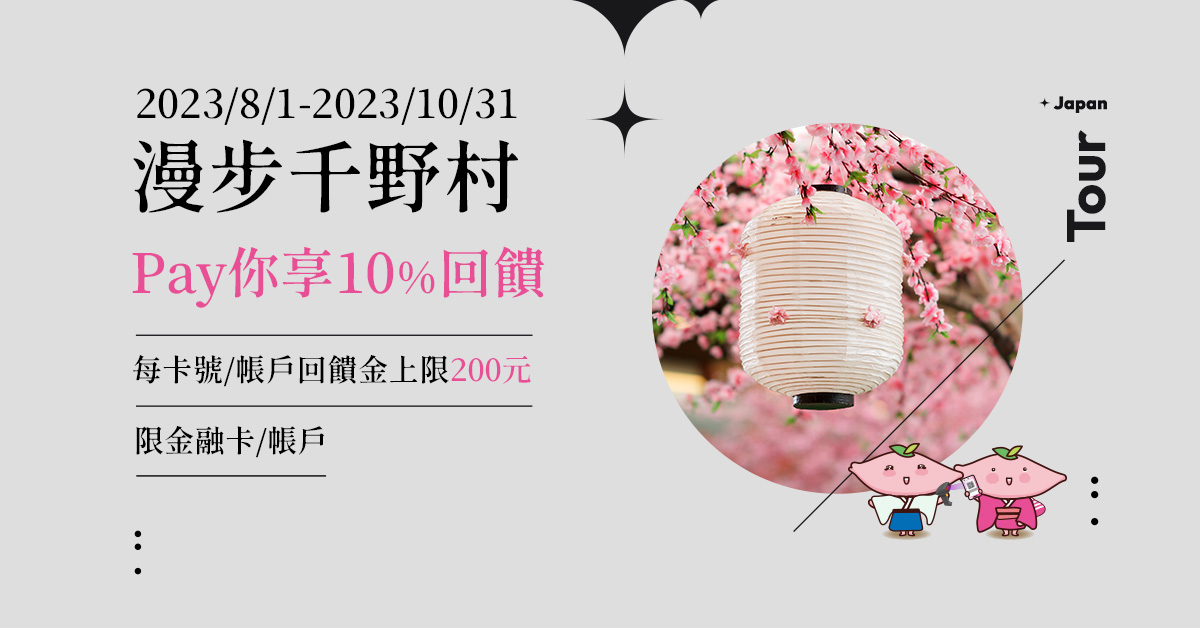
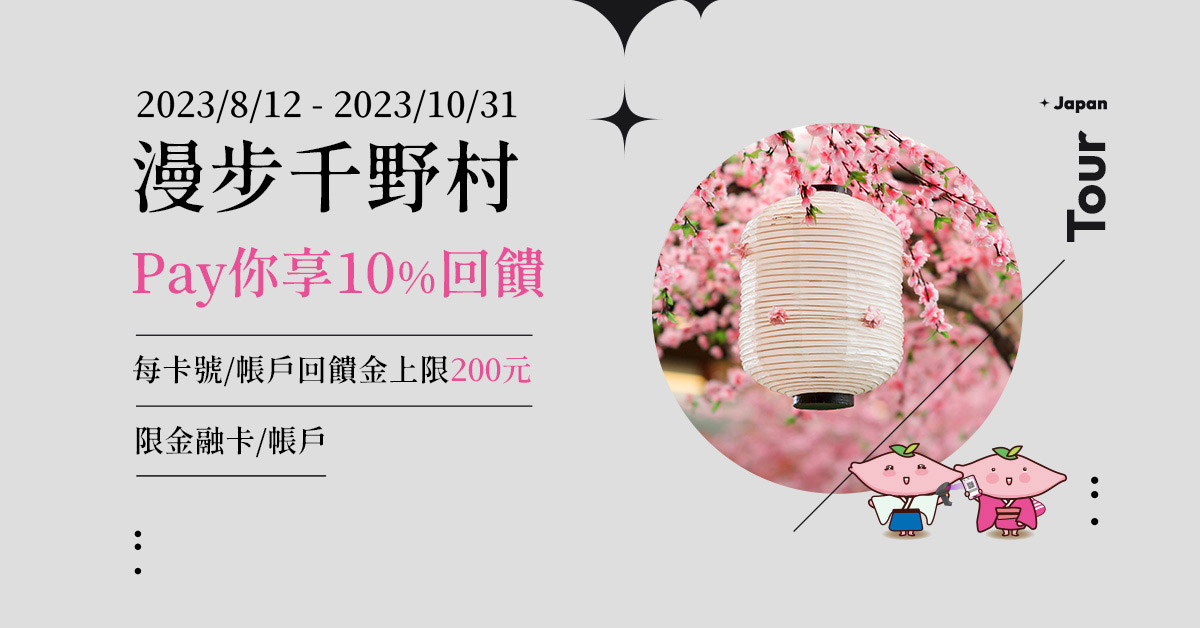
2

Changed region(s): [[0.1233, 0.121, 0.4317, 0.2118]]

diff --git a/senyavillag/index.html b/senyavillag/index.html
@@ -10,12 +10,12 @@
     <link rel="shortcut icon" type="image/x-icon" href="https://www.yuantabank.com.tw/bank/resources/front/images/favicon.ico" />
 
     <meta name="keywords" content="帳戶支付連結,行動支付,電子支付,元大銀行,元大,數位存款,鑽金數位存款,台灣Pay,twpay,千野村,日式景觀園區" />
-    <meta name="description" content="即日起使用元大帳戶連結台灣Pay，於千野村日式景觀園區指定店家消費享10%現金回饋(每帳戶/金融卡回饋上限100元)。" />
+    <meta name="description" content="即日起使用元大帳戶連結台灣Pay，於千野村日式景觀園區指定店家消費享10%現金回饋(每帳戶/金融卡回饋上限200元)。" />
 
     <meta property="og:title" content="元大銀行｜元大銀行｜漫步千野村 Pay你享10%回饋" />
     <meta property="og:site_name" content="元大銀行" />
     <meta property="og:url" content="https://www.yuantabank.com.tw/bankwebIMG/event/Bank_Act2023/twpay_senyavillage/index.html" />
-    <meta property="og:description" content="即日起使用元大帳戶連結台灣Pay，於千野村日式景觀園區指定店家消費享10%現金回饋(每帳戶/金融卡回饋上限100元)。" />
+    <meta property="og:description" content="即日起使用元大帳戶連結台灣Pay，於千野村日式景觀園區指定店家消費享10%現金回饋(每帳戶/金融卡回饋上限200元)。" />
 
     <!-- Facebook 縮圖 -->
     <link rel="image_src" href="https://www.yuantabank.com.tw/bankwebIMG/event/Bank_Act2023/twpay_senyavillage/assets/images/share_img.jpg" />
@@ -83,19 +83,19 @@
                     <div class="event" id="event">
                         <div class="event_part">
                             <div class="event_tit"><img src="assets/images/event_tit1.png" alt="活動期間"></div>
-                            <div class="event_date">112/8/12 - 112/10/31</div>
+                            <div class="event_date">2023/8/12 - 2023/10/31</div>
                         </div>
                         <div class="event_part">
                             <div class="event_tit"><img src="assets/images/event_tit2.png" alt="活動對象"></div>
-                            <div class="event_txt">於活動地點使用元大「台灣Pay」（透過「台灣行動支付」APP或「元大銀行」APP），<br class="dis-none">QR Code掃碼（限金融卡/帳戶）進行支付之用戶。</div>
+                            <div class="event_txt">於活動地點使用元大「台灣Pay」（透過「台灣行動支付」APP或「元大銀行」APP），<br class="dis-none">QR Code掃碼（限金融卡/帳戶）進行支付之用戶</div>
                         </div>
                         <div class="event_part">
                             <div class="event_tit"><img src="assets/images/event_tit3.png" alt="活動地點"></div>
-                            <div class="event_txt">千野村日式景觀園區受理「台灣Pay」交易之指定店家，如有異動以元大銀行官網公告為準。</div>
+                            <div class="event_txt">千野村日式景觀園區內受理「台灣Pay」交易之指定店家，如有異動以元大銀行官網公告為準。</div>
                         </div>
                         <div class="event_part">
                             <div class="event_tit"><img src="assets/images/event_tit4.png" alt="活動內容"></div>
-                            <div class="event_txt">活動期間客戶至活動地點以「台灣Pay」QR Code掃碼（限金融卡/帳戶）進行支付，<br class="dis-none">可享單筆交易不限金額<span class="pinktt">10%現金回饋</span>(非即時回饋，小數點後四捨五入)，<br class="dis-none">每帳戶/金融卡回饋上限新臺幣(以下同)200元。<br class="dis-none">本活動回饋總金額30萬元為上限，額滿為止，並公告於元大銀行官網。</div>
+                            <div class="event_txt">活動期間用戶至活動地點以「台灣Pay」QR Code掃碼（限金融卡/帳戶）進行支付，<br class="dis-none">可享單筆交易不限金額<span class="pinktt">10%現金回饋</span>(非即時回饋，小數點後四捨五入)，<br class="dis-none">活動期間內每帳戶/金融卡回饋上限新臺幣(以下同)200元。<br class="dis-none">本活動回饋總金額30萬元為上限，額滿為止，並公告於元大銀行官網。</div>
                         </div>
                         <div class="action">
                             <div class="action-item">
@@ -124,27 +124,27 @@
                                 <ol>
                                     <li>本活動將依用戶交易時序核算回饋資格，且整筆交易金額不得拆刷。如經主辦單位確認已達本活動回饋總金額上限，即停止回饋，並公告於元大銀行官網，不另行通知。</li>
                                     <li>本活動用戶單筆結帳金額，以活動店家計算金額為準，若因付款失敗、交易取消、退貨退款等情形，該筆交易金額將不列入回饋金計算範圍。</li>
-                                    <li>本活動回饋金將於活動期間結束並核實用戶之消費金額後，由各參與金融機構依其作業時程於113年1月31日前撥付至用戶據以扣款之金融卡/帳戶，倘於回饋金撥入前，持卡人有停卡、取消交易、警示帳戶、發生失效情形(如結清銷戶或其他事由致帳戶失效)、違反與參與金融機構間契約或其他因素致無法撥入等情事者，視同用戶放棄其回饋資格。</li>
+                                    <li>本活動回饋金將於活動期間結束並依主辦單位系統核實確認用戶之消費金額後，由各參與金融機構依其作業時程於113年1月31日前撥付至用戶據以扣款之金融卡/帳戶，倘於回饋金撥入前，用戶有停卡、取消交易、警示帳戶、如結清銷戶或其他事由致帳戶失效、違反與參與金融機構間契約或任何其他因素致回饋金無法撥入者，視同用戶放棄其回饋資格。</li>
                                     <li>參與金融機構：透過「行動銀行」APP或「台灣行動支付」APP之參與機構如下，如有更新則以<a href="https://taiwanpay.com.tw/" target="_blank">「台灣Pay」官網</a>為準，不另行通知。
                                         <ul>
-                                            <li>「行動銀行」APP之參與機構：臺灣銀行、土地銀行、合作金庫、第一銀行、華南銀行、彰化銀行、高雄銀行、兆豐銀行、臺灣企銀、台北富邦、京城銀行、華泰銀行、陽信銀行、板信銀行、淡水一信、台中二信、三信銀行、農金資訊「農漁行動達人」、中華郵政、元大銀行及玉山銀行(含玉山Wallet)，計21家金融機構。</li>
+                                            <li>「行動銀行」APP之參與機構：臺灣銀行、土地銀行、合作金庫、第一銀行、華南銀行、彰化銀行、高雄銀行、兆豐銀行、臺灣企銀、上海銀行、台北富邦、京城銀行、華泰銀行、陽信銀行、板信銀行、淡水一信、台中二信、三信銀行、農金資訊「農漁行動達人」、中華郵政、元大銀行及玉山銀行(玉山Wallet)，計22家金融機構。</li>
                                             <li>「台灣行動支付」APP之參與機構：臺灣銀行、土地銀行、合作金庫、第一銀行、華南銀行、彰化銀行、上海商銀、兆豐銀行、臺灣企銀、新光銀行、基隆一信、基隆二信、淡水一信、新竹一信、新竹三信、彰化六信、花蓮二信、中華郵政、南農中心及南資中心，計20家金融卡發卡機構。</li>
                                         </ul>
                                     </li>
                                 </ol>
                             </li>
-                            <li>各參與金融機構及財金資訊股份有限公司並未介入商品、服務之提供或交付、或商品服務買賣等實體法律關係，不負擔任何瑕疵擔保或賠償責任，相關商品退換貨或瑕疵擔保所衍生之爭議事宜，用戶請洽活動地點門市尋求解決。</li>
-                            <li>主、協辦單位就用戶之資格、交易成功與否等，保有審查之權利，經查核若有不符本活動之規定者，主、協辦單位得取消其參加資格，並得追回回饋金或請求損害賠償。</li>
-                            <li>用戶同意主、協辦單位留存有關本活動之資料及紀錄，且內容皆以主、協辦單位之電腦系統與時間為準。</li>
-                            <li>對於以偽造、詐欺、冒名、拆單或其他不正當方式意圖兌領之用戶，經查證屬實者，主辦單位有權排除其參與本活動，並得依法對該用戶提起相關法律訴訟程序。</li>
-                            <li>用戶已充分知悉且同意就本活動提供之個人資料，主、協辦單位得於此次活動範圍進行蒐集、處理及利用或國際傳輸，並遵守【個人資料保護法】相關規定辦理。</li>
-                            <li>其它未盡事宜以龜記活動門市公告或主、協辦單位活動訊息頁面為準。主、協辦單位有權決定取消、終止、修改或暫停本活動，亦有權對本活動之所有事項做出最終解釋，無須另行通知。</li>
+                            <li>各參與金融機構及財金資訊股份有限公司並未介入商品、服務之提供或交付、或商品服務買賣等實體法律關係，不負擔任何瑕疵擔保或賠償責任，相關商品退換貨或瑕疵擔保所衍生之爭議事宜，用戶請洽活動地點之指定店家尋求解決。</li>
+                            <li>主辦單位、協辦單位就用戶之資格、交易成功與否等，保有審查之權利，經查核若有不符本活動之規定者，主辦單位、協辦單位得取消其參加資格，並得追回回饋金或請求損害賠償。。</li>
+                            <li>用戶同意主辦單位、協辦單位留存有關本活動之資料及紀錄，且內容皆以主辦單位、協辦單位之電腦系統與時間為準。</li>
+                            <li>對於以偽造、詐欺、冒名、拆單或其他不正當方式意圖兌領之用戶，經查證屬實者，主辦單位有權排除其參與本活動，並得依法對該用戶提起相關法律程序。</li>
+                            <li>用戶已充分知悉且同意就本活動提供之個人資料，主辦、協辦單位得於此次活動範圍進行蒐集、處理及利用或國際傳輸，並遵守【個人資料保護法】相關規定辦理。</li>
+                            <li>其它未盡事宜以千野村日式景觀園區公告或主辦單位、協辦單位活動訊息頁面為準。主辦單位、協辦單位有權決定取消、終止、修改或暫停本活動，亦有權對本活動之所有事項做出最終解釋，無須另行通知。</li>
                             <li>主辦單位：元大商業銀行、千野村日式景觀園區；協辦單位：財金資訊股份有限公司</li>
                             <li>本網站的立場及聲明：
                                 <ol>
                                     <li>本活動係元大銀行舉辦。參加者於參加本活動時，即同意接受本活動內容、個人網路銀行、行動銀行及元大e櫃檯各項使用規範及規定；如有以不當程式或方法干擾，元大銀行將取消參加及回饋資格，元大銀行並得向參加者請求損害賠償。</li>
                                     <li>參加者應承諾提出之資料均為真實、正確且未冒用或盜用任何第三人之資料；若有冒用或盜用他人資料，或個人資料有不實、不齊全或不正確之情事，元大銀行將取消參加或（及）回饋資格。如因此造成第三人向元大銀行主張任何權利，應由參加者負全部責任。</li>
-                                    <li>任何因行動裝置、電腦、網路、電話、技術或不可歸責於元大銀行之事由，而使參加者所登錄之資料有遲延、遺失、錯誤、無法辨識或毀損等情況致未成功參加本活動，參加者不得因此異議或請求元大銀行賠償。</li>
+                                    <li>任何因行動裝置、電腦、網路、電話、技術或不可歸責於元大銀行之事由，而使參加者所登錄之資料有遲延、遺失、錯誤、無法辨識或毀損等情況致未成功參加本活動，參加者不得因此以任何理由異議或請求元大銀行賠/補償。</li>
                                 </ol>
                             </li>
                             <li>法律管轄權：
@@ -152,9 +152,6 @@
                                     <li>參加者同意與本活動有關之任何行為，應依據中華民國法律解釋或辦理，即使使用元大銀行個人網路銀行或行動銀行APP之當時所在地非中華民國境內，仍以中華民國法律規範之。</li>
                                     <li>雙方同意如因本活動發生相關訴訟，除法律另有規定外，合意以臺灣臺北地方法院為第一審管轄法院。</li>
                                 </ol>
-                            </li>
-                            <li>所得申報：
-                                <p>依中華民國稅法規定，申請人為中華民國境內居住之個人，年度累積贈品價值超過新臺幣1,000元，將併入個人綜合所得稅申報，申請人非中華民國境內居住之個人，不論贈品價值，均需先繳納10%之稅金，始可領取，若未能依法繳納稅額，即視為喪失領取資格。前述相關稅捐法規於本活動期間如有變動，依修正後規定辦理。</p>
                             </li>
                             <li>免責聲明：
                                 <p>元大銀行保有審核參加者資格之權利，及取消、終止、修改或暫停本活動辦法及更動贈品的權利。如有其他未盡事宜，悉依元大銀行官方網站公告之相關規定或決定辦理。如有疑問，請洽元大銀行客服中心 (02)2182-1968 或 0800-688-168。</p>
